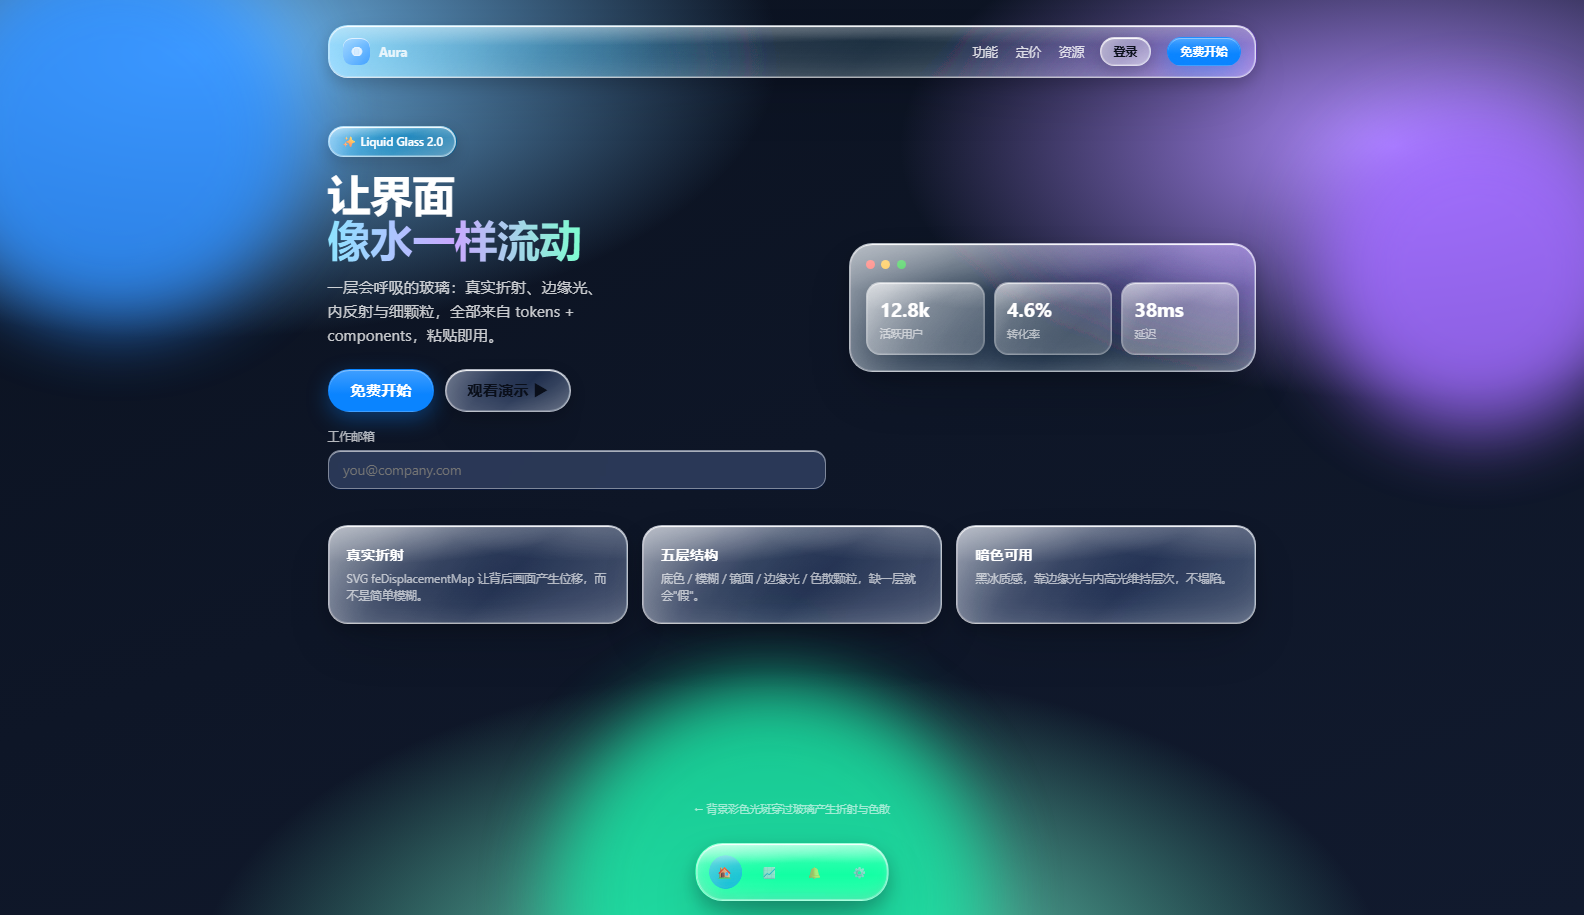
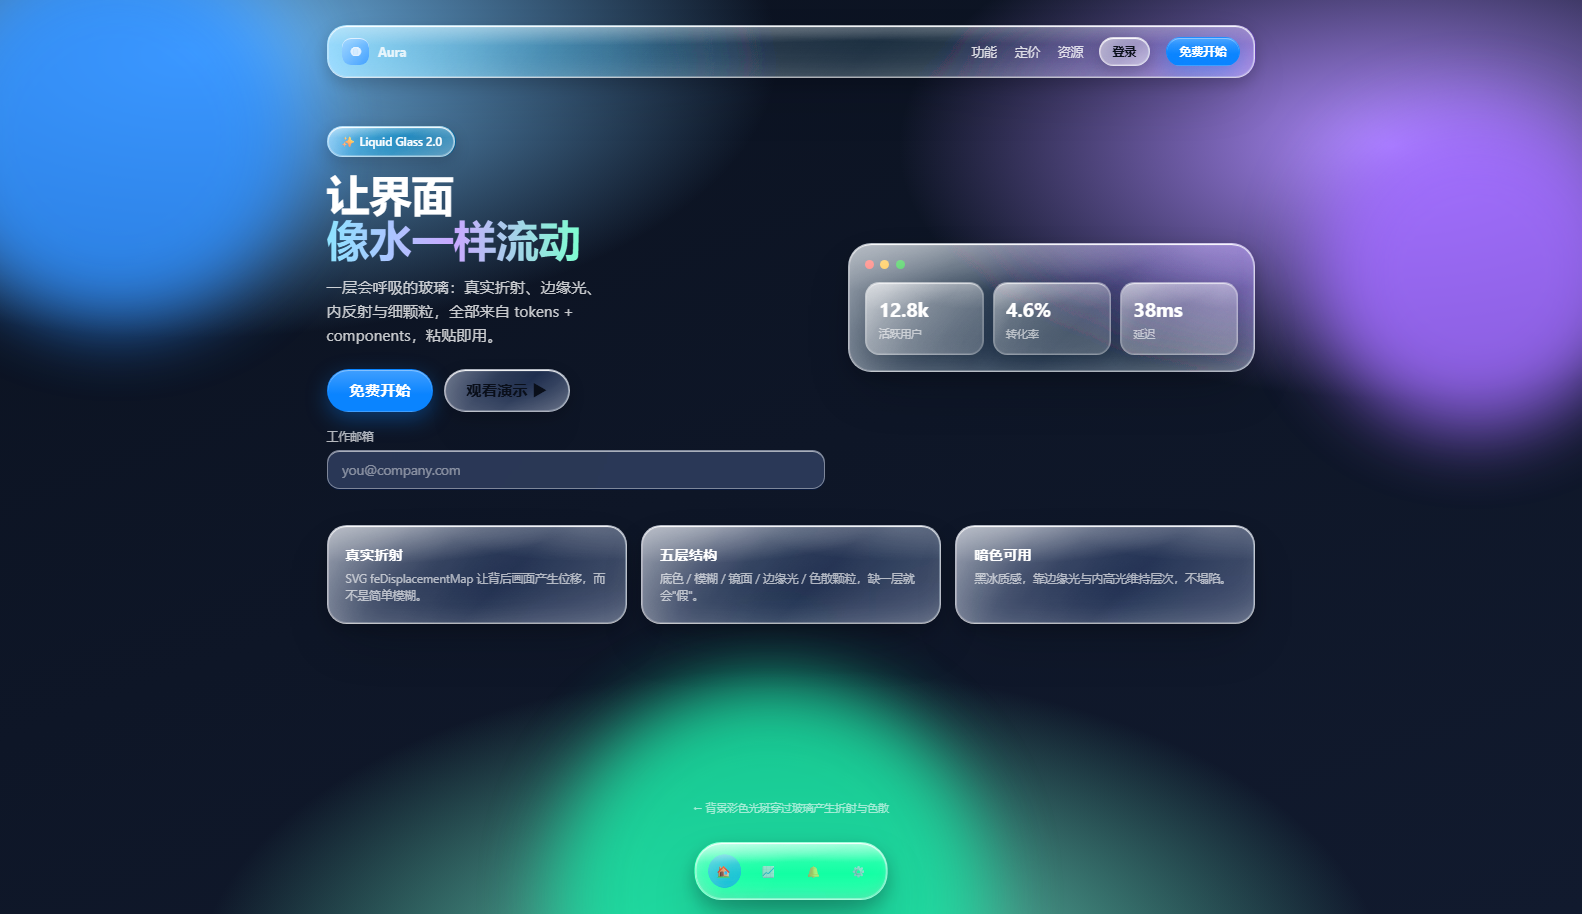
fix(smoke): zero page-level glass overrides; add .on-dark context and imports-only proof

diff --git a/examples/skill-smoke/_minimal.html b/examples/skill-smoke/_minimal.html
@@ -1,0 +1,26 @@
+<!doctype html>
+<html lang="zh-CN"><head>
+<meta charset="utf-8"><meta name="viewport" content="width=device-width,initial-scale=1">
+<link rel="stylesheet" href="../../assets/tokens.css">
+<link rel="stylesheet" href="../../assets/components.css">
+<style>/* 仅背景与排版，无任何玻璃属性 */
+body{margin:0;min-height:100vh;display:grid;place-items:center;background:
+ radial-gradient(50% 50% at 20% 20%,#7ac7ff,transparent 60%),
+ radial-gradient(50% 50% at 80% 30%,#b18cff,transparent 60%),
+ radial-gradient(60% 60% at 50% 100%,#6ef0c8,transparent 60%),
+ linear-gradient(160deg,#0b1220,#111a2e);}
+.row{display:flex;gap:20px;align-items:center;flex-wrap:wrap;padding:40px}
+.box{width:220px;height:130px;display:grid;place-items:center;color:#fff}
+</style></head><body class="on-dark">
+<div class="row">
+ <div class="glass box" id="g">.glass</div>
+ <div class="card box" id="c">.card</div>
+ <button class="btn btn--glass" id="b">.btn--glass</button>
+ <div class="field" style="width:220px"><div class="field__control"><input class="field__input" placeholder="field"></div></div>
+</div>
+<pre id="out" style="position:fixed;left:20px;bottom:20px;color:#fff;font:12px/1.5 monospace;background:#0008;padding:12px;border-radius:10px"></pre>
+<script>
+const g=(id)=>{const s=getComputedStyle(document.getElementById(id));return [id,s.backdropFilter,s.backgroundColor,s.borderColor,s.boxShadow.split(',')[0]].join(' | ')};
+document.getElementById('out').textContent=[g('g'),g('c'),g('b')].join('\n');
+</script>
+</body></html>

diff --git a/examples/skill-smoke/index.html b/examples/skill-smoke/index.html
@@ -46,15 +46,12 @@
   .cards h3{margin:0 0 6px;font-size:16px}
   .cards p{margin:0;font-size:13px;line-height:1.5;color:rgba(255,255,255,.65)}
   .field{margin-top:18px}
-  .field__label{color:rgba(255,255,255,.7)}
-  .field__control{background:rgba(255,255,255,.14)!important;border-color:rgba(255,255,255,.4)!important}
-  .field__input{color:#fff}
   .dock{position:fixed}
   .caption{position:fixed;bottom:110px;left:50%;transform:translateX(-50%);z-index:2;font-size:12px;color:rgba(255,255,255,.6)}
   @media (max-width:820px){.hero{grid-template-columns:1fr}.cards{grid-template-columns:1fr}}
 </style>
 </head>
-<body>
+<body class="on-dark">
 <!-- 真折射 defs：全站一次 -->
 <svg class="lg-defs" aria-hidden="true" focusable="false">
   <defs>

diff --git a/assets/components.css b/assets/components.css
@@ -390,3 +390,10 @@
   background:radial-gradient(circle at 35% 30%, #7cc0ff, #0a84ff 72%);
   box-shadow:0 8px 18px rgba(10,132,255,.42), inset 0 1px 0 rgba(255,255,255,.6); }
 
+/* ---- 深色页面上下文：玻璃上的表单无需页面再写背景/边框 ---- */
+.on-dark .field__label{ color:rgba(255,255,255,.70); }
+.on-dark .field__control{ background:rgba(255,255,255,.14); border-color:rgba(255,255,255,.40); }
+.on-dark .field__control:hover{ background:rgba(255,255,255,.20); }
+.on-dark .field__input{ color:#fff; }
+.on-dark .field__input::placeholder{ color:rgba(255,255,255,.45); }
+

diff --git a/SKILL.md b/SKILL.md
@@ -48,14 +48,16 @@ body{
 ## 强液态玻璃配方（必须 5 层，缺一层就是"假玻璃"）
 | # | 层 | 作用 | 关键参数 |
 |---|----|------|---------|
-| 1 | 半透明底色 | 让背后颜色透出 | 135° 白渐变 rgba(255,255,255,.72→.22→.48) |
+| 1 | 半透明底色 | 让背后颜色透出 | 135° 白渐变 rgba(255,255,255,.42→.16→.10→.26) |
 | 2 | 背景模糊 | 磨砂 + 提饱和 | blur(30px) saturate(200%) brightness(1.06) |
-| 3 | 镜面高光 | 玻璃反光感 | ::before 径向+线性白，mix-blend screen，opacity .9 |
+| 3 | 镜面高光 | 玻璃反光感 | ::before 径向+线性白，mix-blend screen，opacity .72 |
 | 4 | 边缘光 | 厚度与轮廓 | inset 0 1px 1px rgba(255,255,255,.98) + inset 0 0 0 1px rgba(255,255,255,.26) |
 | 5 | 内反射/色散/颗粒 | 真实折射细节 | 底部 inset 白光 + 左右 1px 冷暖色散边 + 5% 噪点 |
 | + | 彩色背景 | 玻璃"有东西可折射" | 见上方背景示例 |
 
 全部已封装在 `assets/components.css` 的 `.glass / .card / .btn--glass / .dock` 中；真折射开关是 `.glass--refract`。
+
+深色页面给 `<body>` 加 `.on-dark`，表单/文本自动适配，**禁止页面再用 `!important` 覆盖玻璃背景/边框**。
 
 ## 反面清单（自查是否踩坑）
 - 纯白背景 + 只 `backdrop-filter: blur` → 灰雾，不像玻璃。
